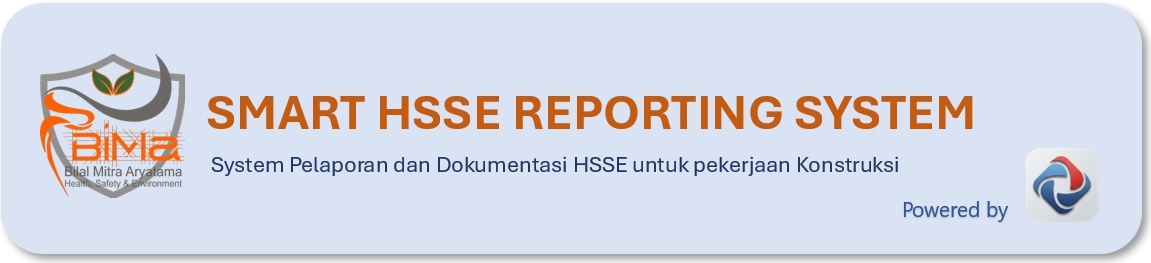
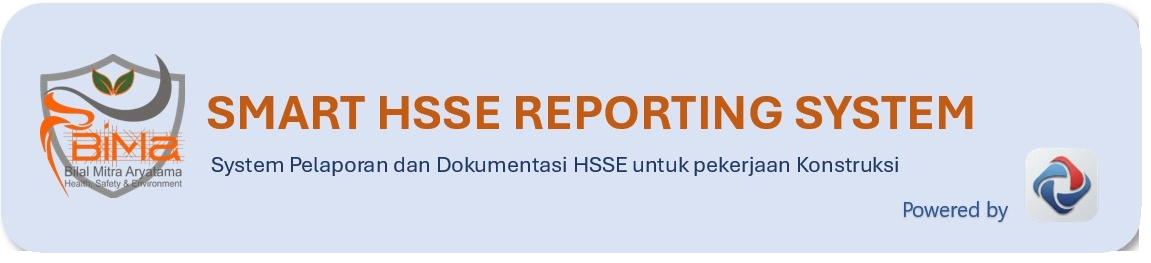
Desain ulang header index.html (menu utama) pakai HTML/CSS asli, bukan gambar flat
- index.html: header banner di menu utama sekarang dibangun dari HTML/CSS asli (div + teks + 2 gambar kecil: logo BiMa & icon Powered by), bukan 1 gambar besar header-banner.png. Isinya sama persis (judul, subjudul, logo, Powered by), cuma sekarang gak akan pernah ada masalah shadow/halo kebakar kayak sebelumnya karena background birunya emang CSS gradient, teksnya emang teks asli.
- powered-by-icon.png (baru): crop bersih dari icon partner yang tadinya nempel di header-banner.png, dipakai di header baru ini.
- style.css: nambah style .hero-banner dkk buat header baru di index.html. Halaman lain (cermat-report.html dst) masih pakai header-banner.png yang lama (sudah dibersihin shadow-nya di commit sebelumnya) -- gak diubah, sesuai yang diminta cuma buat menu utama dulu.

Claude-Session: https://claude.ai/code/session_016qHKeqGBJhcBKUCHoj3jQy

Changed region(s): [[0.0, 0.943, 1.0, 1.0], [0.9731, 0.0913, 1.0, 0.9125]]

diff --git a/style.css b/style.css
@@ -31,8 +31,31 @@ body {
 }
 .header-banner {
   display: block; width: 100%; height: auto; border-radius: 20px; margin-bottom: 16px;
-  box-shadow: 0 8px 24px rgba(45, 60, 115, 0.18);
 }
+
+/* ===== Hero banner khusus index.html (menu utama) -- native HTML/CSS, bukan gambar
+   flat, biar gak ada masalah shadow/halo kebakar kayak header-banner.png. ===== */
+.hero-banner {
+  background: linear-gradient(135deg, #E9EFFC 0%, #D9E3F7 100%);
+  border-radius: 20px;
+  padding: 20px 22px;
+  margin-bottom: 16px;
+}
+.hero-banner-top { display: flex; align-items: center; gap: 16px; }
+.hero-logo { width: 62px; height: auto; flex-shrink: 0; }
+.hero-text { flex: 1; min-width: 0; }
+.hero-title {
+  font-size: clamp(15px, 4.6vw, 23px); font-weight: 800; color: #C25C15;
+  line-height: 1.2; letter-spacing: -0.01em;
+}
+.hero-subtitle {
+  font-size: clamp(10.5px, 2.8vw, 13px); color: var(--navy-dark); margin-top: 4px; font-weight: 500;
+}
+.hero-powered {
+  display: flex; align-items: center; justify-content: flex-end; gap: 7px;
+  margin-top: 10px; font-size: 11px; color: var(--navy); font-weight: 600;
+}
+.hero-powered img { width: 34px; height: 34px; }
 .header .eyebrow {
   font-size: 12px; letter-spacing: 0.12em; text-transform: uppercase;
   color: var(--accent); font-weight: 700; margin-bottom: 6px;

diff --git a/index.html b/index.html
@@ -12,9 +12,20 @@
 <div class="page">
 
   <div class="header">
-    <img src="header-banner.png" class="header-banner" alt="Smart HSSE Reporting System">
+    <div class="hero-banner">
+      <div class="hero-banner-top">
+        <img src="logo-bima.png" class="hero-logo" alt="Logo BiMa">
+        <div class="hero-text">
+          <div class="hero-title">SMART HSSE REPORTING SYSTEM</div>
+          <div class="hero-subtitle">System Pelaporan dan Dokumentasi HSSE untuk pekerjaan Konstruksi</div>
+        </div>
+      </div>
+      <div class="hero-powered">
+        <span>Powered by</span>
+        <img src="powered-by-icon.png" alt="Powered by">
+      </div>
+    </div>
     <div class="header-top">
-      <img src="logo-bima.png" class="header-logo" alt="Logo BiMa">
       <div>
         <div class="eyebrow">HSSE Reporting System</div>
         <h1>HSSE-Fusion4</h1>
